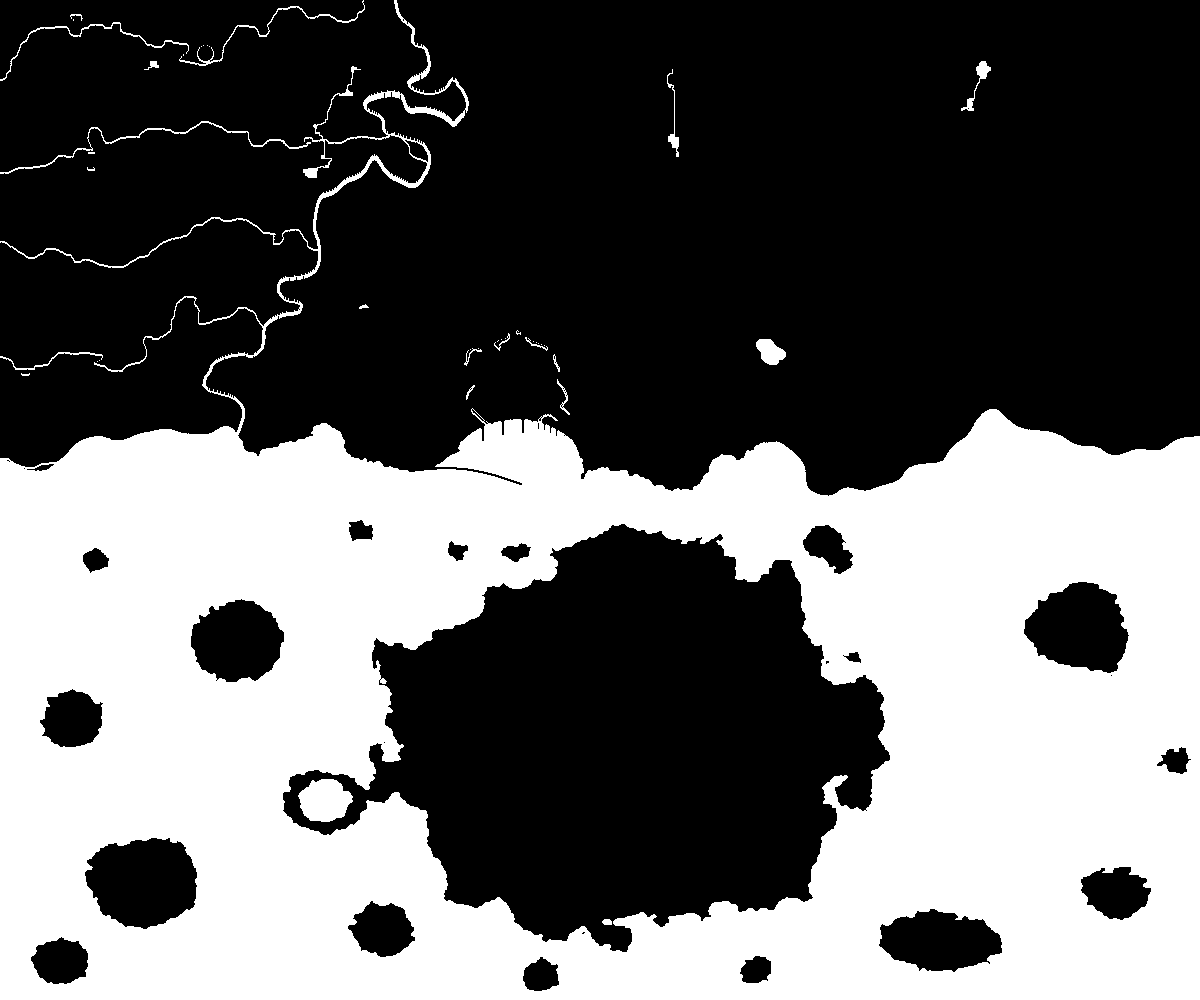
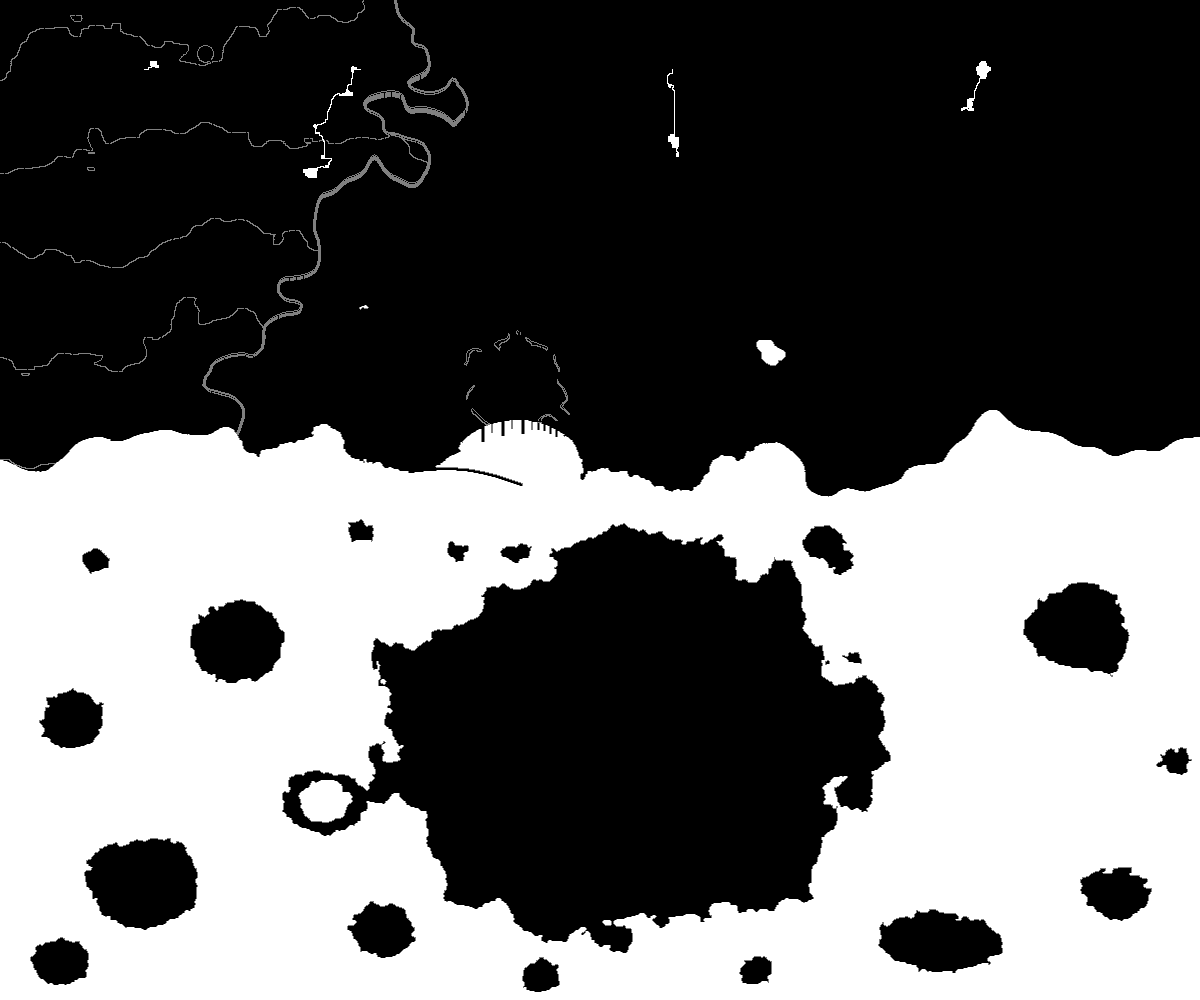
US-8B12e: collisioni corrette, alle Marche solo volando o dal sottosuolo
blocchi(): il vicino 'a nord' era quello a sud; strade e sentieri passano i
dislivelli solo dentro una regione. blocchi.png distingue acqua/vuoto (255)
dai dislivelli (128), che hanno un loro strato di collisione: chi vola li
passa (player.imposta_volo). regions.json: accesso delle Marche = volo,
sottosuolo. Test di raggiungibilita' a piedi e in volo. 973 test passati.

Claude-Session: https://claude.ai/code/session_014ycMSkFAn8ixUvbSfrqtAR

diff --git a/tools/art/esporta_mondo.py b/tools/art/esporta_mondo.py
@@ -4,6 +4,7 @@ Esporta il mondo di prova (seed 6) per il gioco (US-8B12): Godot carica questi f
 
     python tools/art/esporta_mondo.py                 # tutte e due le modalita' (luminoso + cupo)
     python tools/art/esporta_mondo.py --tema cupo     # una sola
+    python tools/art/esporta_mondo.py --solo-blocchi  # solo le collisioni (blocchi.png), pochi minuti
 
 Il terreno con pareti, bordi e varianti si compone qui in Python, a blocchi, esattamente come le anteprime
 (build_world.ritaglio); poi si tengono solo le caselle 32x32 diverse (34 mila su 1,2 milioni): fogli-atlante + una
@@ -12,7 +13,7 @@ sprite a parte, ordinati per profondita' nel gioco. L'acqua per ora e' ferma (fr
 
 assets/world/
     mondo.json              dati comuni ai due temi: misure, tile, partenza, luoghi, fogli, oggetti
-    blocchi.png             1 px per casella: 255 = non si passa (acqua, vuoto, pareti, salti di lato)
+    blocchi.png             1 px per casella: 255 = acqua o vuoto, 128 = dislivello (a piedi no, in volo si'), 0 = libera
     regioni.png             1 px per casella: indice della regione (mondo.json "regioni")
     <tema>/tessere_<k>.png  fogli-atlante, 64 x 128 tessere da 32 px
     <tema>/indici.png       1 px per casella: indice della tessera (R = byte basso, G = byte alto)
@@ -63,16 +64,33 @@ def tessere(w):
     return lista, indici
 
 
+ACQUA, DISLIVELLO = 255, 128
+
+
 def blocchi(w):
-    """255 = non si passa: acqua e vuoto, pareti senza scala o rampa, e i salti di lato o verso nord (il bordo alto
-    di un gradone: si sale e si scende solo dalle pareti a sud, con scale e rampe)."""
+    """Per casella: 255 = acqua o vuoto (non si passa mai), 128 = dislivello (non si passa a piedi, volando si'),
+    0 = libera. Dislivello: le pareti senza scala o rampa e i bordi alti dei gradoni verso est, ovest e nord (si
+    sale e si scende solo dalle pareti a sud, con scale e rampe). Strade e sentieri attraversano i dislivelli solo
+    dentro una stessa regione: al confine (il Passo tra le Rupi, sotto le Marche) il salto resta.
+    2026-10-25: il vicino "a nord" era quello a sud (sposta(alt, -1, 0) e' la casella sotto): bloccava la fila in
+    cima a ogni scala e lasciava aperti i bordi nord."""
     alt = w.alt
     faccia = maschera_pareti(alt, w.mat_par)
-    b = w.water_mask.copy() | (faccia & (w.pas == "."))
-    for sy, sx in ((0, 1), (0, -1), (-1, 0)):                 # vicino a est, ovest, nord piu' basso
+    salto = faccia & (w.pas == ".")
+    for sy, sx in ((0, 1), (0, -1), (1, 0)):                  # vicino a ovest, est, nord piu' basso
         vic = B.sposta(alt, sy, sx, -99)
-        b |= (vic < alt) & (vic != -99) & ~faccia
-    return np.where(b, 255, 0).astype(np.uint8)
+        salto |= (vic < alt) & (vic != -99) & ~faccia
+    strada = np.zeros(alt.shape, bool)
+    for s in list(w.roads) + list(w.sentieri):
+        for x, y in s:
+            strada[y, x] = True
+    stessa = np.ones(alt.shape, bool)                          # tutti e 4 i vicini nella regione della casella
+    for sy, sx in ((0, 1), (0, -1), (1, 0), (-1, 0)):
+        stessa &= B.sposta(w.biome, sy, sx, -1) == w.biome
+    salto &= ~(strada & stessa)
+    out = np.where(salto, DISLIVELLO, 0).astype(np.uint8)
+    out[w.water_mask] = ACQUA
+    return out
 
 
 def oggetti(w, cartella):
@@ -96,10 +114,14 @@ def main():
     ap = argparse.ArgumentParser(description=__doc__.split("\n\n")[0])
     ap.add_argument("--tema", choices=["luminoso", "cupo"])
     ap.add_argument("--seed", type=int, default=6)
+    ap.add_argument("--solo-blocchi", action="store_true", help="riscrive solo blocchi.png (le collisioni)")
     a = ap.parse_args()
     w, luoghi, villaggi, sotto = B.genera(a.seed)
     os.makedirs(OUT, exist_ok=True)
     Image.fromarray(blocchi(w)).save(os.path.join(OUT, "blocchi.png"))
+    if a.solo_blocchi:
+        print("->", os.path.join(OUT, "blocchi.png"))
+        return
     Image.fromarray(w.biome.astype(np.uint8)).save(os.path.join(OUT, "regioni.png"))
     fogli, sprite, lista = {}, {}, []
     for t in ([a.tema] if a.tema else ["luminoso", "cupo"]):

diff --git a/tools/validate_data.py b/tools/validate_data.py
@@ -1086,6 +1086,11 @@ def main():
             if not isinstance(dm, (int, float)) or not (0.0 <= dm <= 1.0):
                 err(f"{rel} [{rid}]: densita_mistica deve essere un numero in [0, 1]")
             # US-8B12b: luoghi della mappa -> location_tag della regione (nomi diversi)
+            # 2026-10-25: come ci si arriva nel mondo generato (assente = anche a piedi). Vocabolario chiuso:
+            # il volo e il sottosuolo sono i soli modi oltre al cammino (tests/test_mondo.gd lo verifica sulla mappa).
+            for modo in (reg.get("accesso") or []):
+                if modo not in ("a_piedi", "volo", "sottosuolo"):
+                    err(f"{rel} [{reg.get('id')}]: accesso '{modo}' fuori vocabolario (a_piedi, volo, sottosuolo)")
             for luogo, t in (reg.get("luoghi_mondo") or {}).items():
                 if t not in reg.get("location_tags", []):
                     err(f"{rel} [{reg.get('id')}]: luoghi_mondo '{luogo}' -> '{t}', che non e' tra i suoi location_tags")
